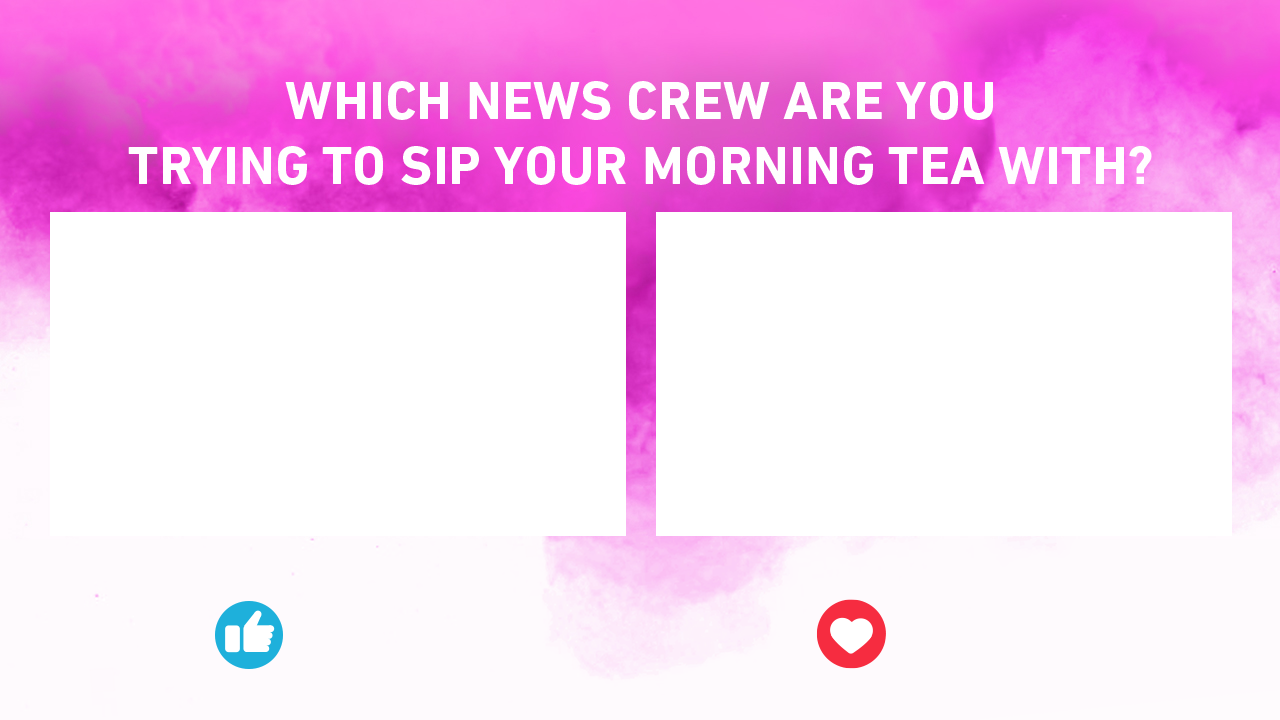
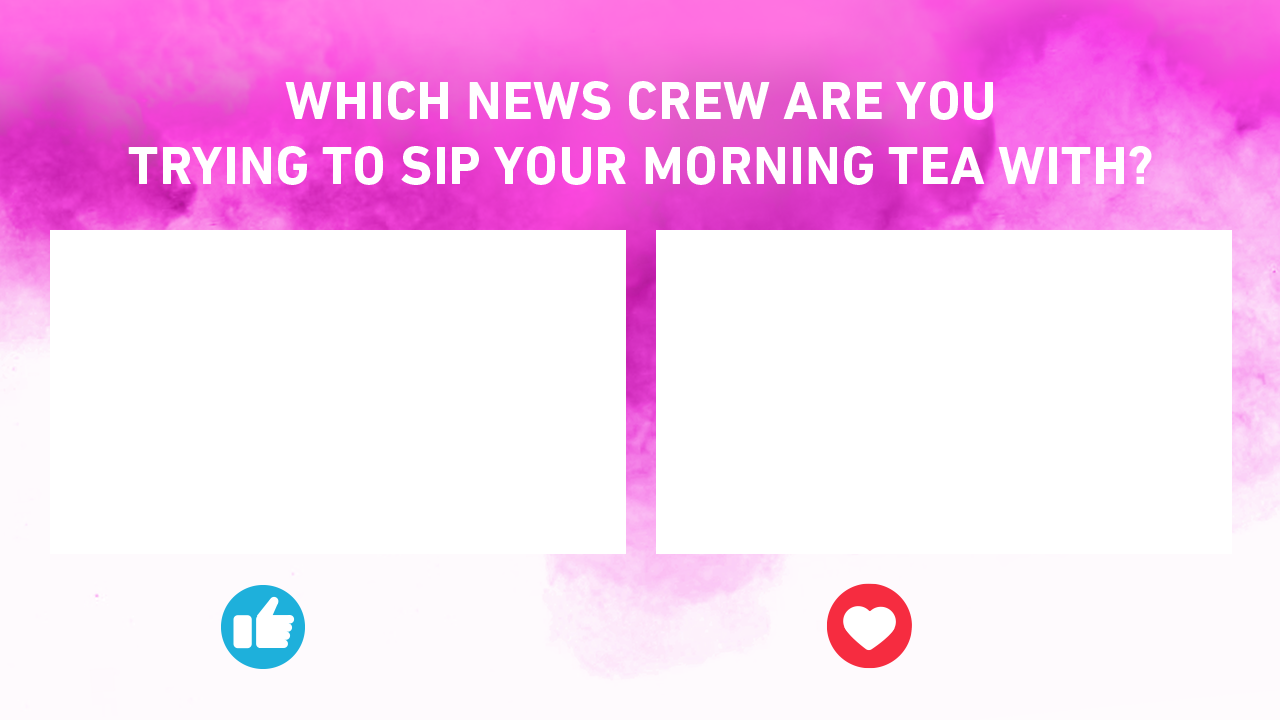
updated rupaul poll

diff --git a/rupaul.html b/rupaul.html
@@ -23,8 +23,8 @@
     
     .voteValue {
         font-family: 'din';
-        font-size: 50px;
-        color: black;
+        font-size: 60px;
+        color: #ed40d2;
     }
     
     #sad {
@@ -35,8 +35,8 @@
     
     #like {
         display: block;
-        top: 592px;
-        left: 290px;
+        top: 580px;
+        left: 300px;
     }
     
     #angry {
@@ -47,8 +47,8 @@
     
     #love {
         position: absolute;
-        top: 592px;
-        left: 890px;
+        top: 580px;
+        left: 910px;
         display: block;
     }
     
